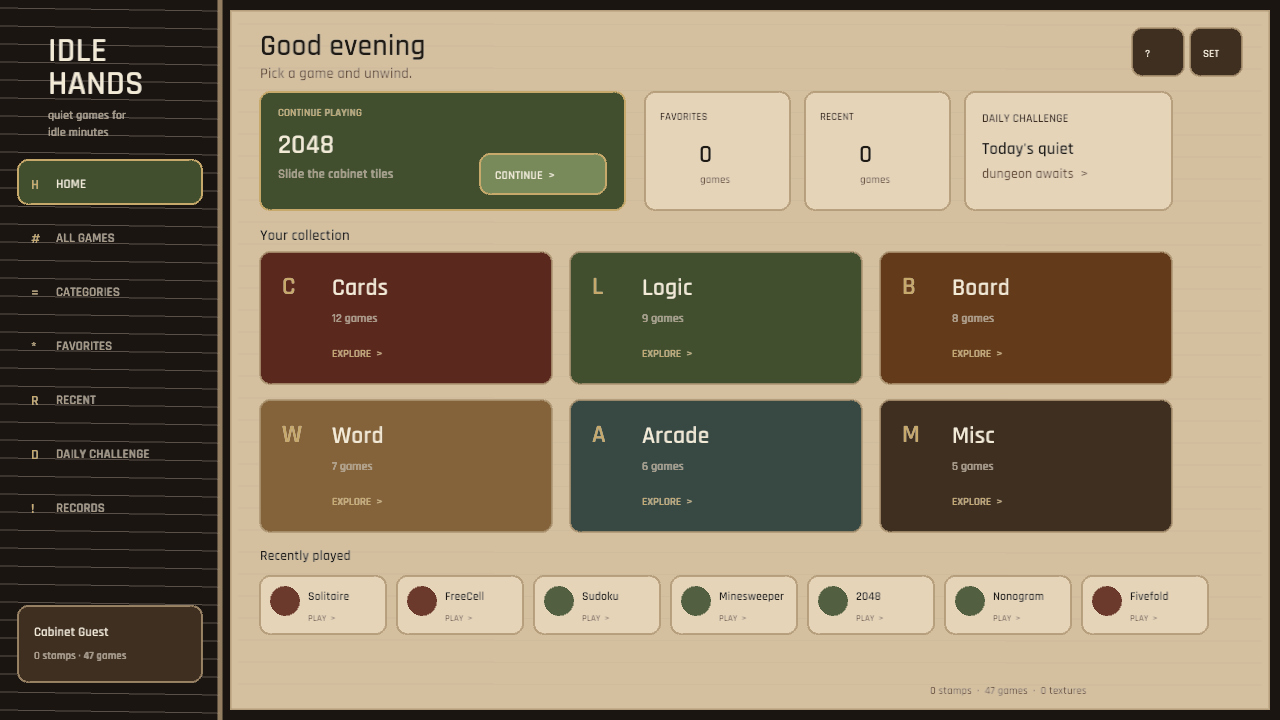
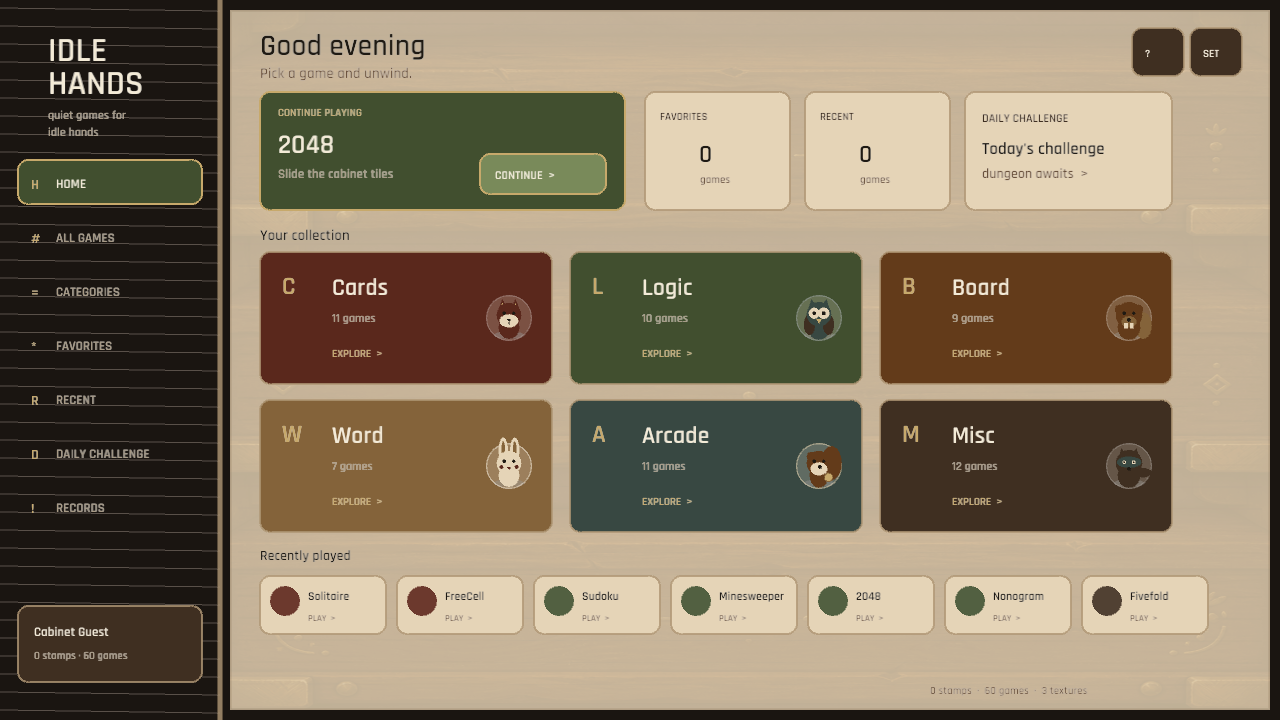
The cabinet gains six quiet companions for every shelf (category mascots and responsive cabinet polish)
The category tiles had open decorative space, while the dense game boards did not. Add the mascots vector sprite renderer and map Cards, Logic, Board, Word, Arcade, and Misc to a fox, owl, beaver, rabbit, squirrel, and raccoon. Draw the mascots only in the desktop, portrait, and compact-landscape home category tiles, keeping the existing full-card hit targets and leaving gameplay surfaces untouched.

Refresh the cabinet verification captures and align the category-count invariant with the current catalog: 11 Cards and 12 Misc. cargo fmt -- --check, cargo test --no-default-features (889 passed), and publish.ps1 completed successfully for Windows and WebGL preview deployment.

diff --git a/src/mascots.rs b/src/mascots.rs
@@ -1,0 +1,317 @@
+//! Small, touch-safe animal marks for the cabinet's six game categories.
+//!
+//! These are intentionally drawn as simple vector sprites instead of loaded
+//! textures. They stay crisp at each cabinet scale, add no asset-loading
+//! failure mode, and remain purely decorative: the category cards keep their
+//! existing full-card hit targets.
+
+use macroquad::prelude::*;
+
+#[derive(Clone, Copy)]
+enum Mascot {
+    Fox,
+    Owl,
+    Beaver,
+    Rabbit,
+    Squirrel,
+    Raccoon,
+}
+
+pub fn draw_for_filter(filter: u8, center: Vec2, scale: f32) {
+    let Some(mascot) = mascot_for_filter(filter) else {
+        return;
+    };
+    let scale = scale.max(0.1);
+    let accent = mascot_accent(mascot);
+
+    draw_ellipse(
+        center.x,
+        center.y + 18. * scale,
+        16. * scale,
+        4. * scale,
+        0.,
+        Color::new(0.05, 0.035, 0.025, 0.28),
+    );
+    draw_circle(
+        center.x,
+        center.y,
+        24. * scale,
+        Color::new(0.94, 0.87, 0.72, 0.12),
+    );
+    draw_circle_lines(
+        center.x,
+        center.y,
+        23. * scale,
+        1.3 * scale,
+        Color::new(accent.r, accent.g, accent.b, 0.42),
+    );
+
+    match mascot {
+        Mascot::Fox => draw_fox(center, scale),
+        Mascot::Owl => draw_owl(center, scale),
+        Mascot::Beaver => draw_beaver(center, scale),
+        Mascot::Rabbit => draw_rabbit(center, scale),
+        Mascot::Squirrel => draw_squirrel(center, scale),
+        Mascot::Raccoon => draw_raccoon(center, scale),
+    }
+}
+
+fn mascot_for_filter(filter: u8) -> Option<Mascot> {
+    match filter {
+        3 => Some(Mascot::Fox),
+        4 => Some(Mascot::Owl),
+        5 => Some(Mascot::Beaver),
+        6 => Some(Mascot::Rabbit),
+        7 => Some(Mascot::Squirrel),
+        8 => Some(Mascot::Raccoon),
+        _ => None,
+    }
+}
+
+fn mascot_accent(mascot: Mascot) -> Color {
+    match mascot {
+        Mascot::Fox => crate::theme::LEATHER,
+        Mascot::Owl => crate::theme::SLATE_BRONZE,
+        Mascot::Beaver => crate::theme::WALNUT,
+        Mascot::Rabbit => crate::theme::PAPER_LIGHT,
+        Mascot::Squirrel => crate::theme::BRASS,
+        Mascot::Raccoon => crate::theme::SURFACE_DARK,
+    }
+}
+
+fn draw_fox(center: Vec2, scale: f32) {
+    let fur = crate::theme::LEATHER;
+    let ear = crate::theme::BRASS;
+    let cream = crate::theme::PAPER_LIGHT;
+    let ink = crate::theme::INK;
+    let s = scale;
+
+    draw_triangle(
+        center + vec2(-12., -7.) * s,
+        center + vec2(-7., -20.) * s,
+        center + vec2(-1., -9.) * s,
+        fur,
+    );
+    draw_triangle(
+        center + vec2(12., -7.) * s,
+        center + vec2(7., -20.) * s,
+        center + vec2(1., -9.) * s,
+        fur,
+    );
+    draw_triangle(
+        center + vec2(-9., -10.) * s,
+        center + vec2(-7., -16.) * s,
+        center + vec2(-4., -11.) * s,
+        ear,
+    );
+    draw_triangle(
+        center + vec2(9., -10.) * s,
+        center + vec2(7., -16.) * s,
+        center + vec2(4., -11.) * s,
+        ear,
+    );
+    draw_ellipse(center.x, center.y + 10. * s, 11. * s, 12. * s, 0., fur);
+    draw_circle(center.x, center.y - 3. * s, 13. * s, fur);
+    draw_ellipse(center.x, center.y + 3. * s, 10. * s, 7. * s, 0., cream);
+    draw_circle(center.x - 5. * s, center.y - 5. * s, 1.7 * s, ink);
+    draw_circle(center.x + 5. * s, center.y - 5. * s, 1.7 * s, ink);
+    draw_triangle(
+        center + vec2(-2.5, 1.) * s,
+        center + vec2(2.5, 1.) * s,
+        center + vec2(0., 4.) * s,
+        ink,
+    );
+    draw_line(
+        center.x,
+        center.y + 4. * s,
+        center.x,
+        center.y + 7. * s,
+        1. * s,
+        ink,
+    );
+}
+
+fn draw_owl(center: Vec2, scale: f32) {
+    let body = crate::theme::SLATE_BRONZE;
+    let wing = crate::theme::SURFACE_DARK;
+    let eye = crate::theme::PAPER_LIGHT;
+    let ink = crate::theme::INK;
+    let s = scale;
+
+    draw_ellipse(center.x, center.y + 7. * s, 13. * s, 16. * s, 0., body);
+    draw_ellipse(
+        center.x - 10. * s,
+        center.y + 7. * s,
+        6. * s,
+        11. * s,
+        -0.28,
+        wing,
+    );
+    draw_ellipse(
+        center.x + 10. * s,
+        center.y + 7. * s,
+        6. * s,
+        11. * s,
+        0.28,
+        wing,
+    );
+    draw_triangle(
+        center + vec2(-11., -10.) * s,
+        center + vec2(-8., -20.) * s,
+        center + vec2(-2., -12.) * s,
+        body,
+    );
+    draw_triangle(
+        center + vec2(11., -10.) * s,
+        center + vec2(8., -20.) * s,
+        center + vec2(2., -12.) * s,
+        body,
+    );
+    draw_circle(center.x, center.y - 4. * s, 13. * s, body);
+    for eye_x in [-5., 5.] {
+        draw_circle(center.x + eye_x * s, center.y - 5. * s, 6. * s, eye);
+        draw_circle(center.x + eye_x * s, center.y - 5. * s, 2. * s, ink);
+    }
+    draw_triangle(
+        center + vec2(-3., 1.) * s,
+        center + vec2(3., 1.) * s,
+        center + vec2(0., 6.) * s,
+        crate::theme::BRASS,
+    );
+}
+
+fn draw_beaver(center: Vec2, scale: f32) {
+    let fur = crate::theme::WALNUT;
+    let light = crate::theme::PARCHMENT_BROWN;
+    let cream = crate::theme::PAPER_LIGHT;
+    let ink = crate::theme::INK;
+    let s = scale;
+
+    draw_ellipse(
+        center.x + 15. * s,
+        center.y + 8. * s,
+        9. * s,
+        14. * s,
+        -0.45,
+        light,
+    );
+    draw_ellipse(center.x, center.y + 10. * s, 12. * s, 13. * s, 0., fur);
+    draw_circle(center.x - 10. * s, center.y - 9. * s, 5. * s, fur);
+    draw_circle(center.x + 10. * s, center.y - 9. * s, 5. * s, fur);
+    draw_circle(center.x, center.y - 3. * s, 14. * s, fur);
+    draw_circle(center.x - 5. * s, center.y - 5. * s, 1.7 * s, ink);
+    draw_circle(center.x + 5. * s, center.y - 5. * s, 1.7 * s, ink);
+    draw_ellipse(center.x, center.y + 4. * s, 8. * s, 6. * s, 0., light);
+    draw_circle(center.x, center.y + 2. * s, 2. * s, ink);
+    draw_rectangle(center.x - 5. * s, center.y + 5. * s, 4. * s, 6. * s, cream);
+    draw_rectangle(center.x + 1. * s, center.y + 5. * s, 4. * s, 6. * s, cream);
+}
+
+fn draw_rabbit(center: Vec2, scale: f32) {
+    let fur = crate::theme::PAPER_LIGHT;
+    let inner = crate::theme::PARCHMENT_BROWN;
+    let blush = crate::theme::LEATHER;
+    let ink = crate::theme::INK;
+    let s = scale;
+
+    for (x, tilt) in [(-6., -0.12), (6., 0.12)] {
+        draw_ellipse(
+            center.x + x * s,
+            center.y - 16. * s,
+            5. * s,
+            14. * s,
+            tilt,
+            fur,
+        );
+        draw_ellipse(
+            center.x + x * s,
+            center.y - 16. * s,
+            2. * s,
+            10. * s,
+            tilt,
+            inner,
+        );
+    }
+    draw_ellipse(center.x, center.y + 10. * s, 11. * s, 12. * s, 0., fur);
+    draw_circle(center.x, center.y - 3. * s, 13. * s, fur);
+    draw_circle(center.x - 5. * s, center.y - 5. * s, 1.7 * s, ink);
+    draw_circle(center.x + 5. * s, center.y - 5. * s, 1.7 * s, ink);
+    draw_triangle(
+        center + vec2(-2.5, 1.) * s,
+        center + vec2(2.5, 1.) * s,
+        center + vec2(0., 4.) * s,
+        blush,
+    );
+    draw_circle(center.x - 8. * s, center.y + 1. * s, 2. * s, blush);
+    draw_circle(center.x + 8. * s, center.y + 1. * s, 2. * s, blush);
+}
+
+fn draw_squirrel(center: Vec2, scale: f32) {
+    let fur = crate::theme::WALNUT;
+    let light = crate::theme::BRASS;
+    let cream = crate::theme::PAPER_LIGHT;
+    let ink = crate::theme::INK;
+    let s = scale;
+
+    draw_ellipse(
+        center.x + 13. * s,
+        center.y - 3. * s,
+        11. * s,
+        18. * s,
+        0.55,
+        fur,
+    );
+    draw_ellipse(center.x, center.y + 10. * s, 10. * s, 13. * s, 0., fur);
+    draw_circle(center.x - 8. * s, center.y - 10. * s, 5. * s, fur);
+    draw_circle(center.x + 8. * s, center.y - 10. * s, 5. * s, fur);
+    draw_circle(center.x, center.y - 3. * s, 13. * s, fur);
+    draw_circle(center.x - 5. * s, center.y - 5. * s, 1.7 * s, ink);
+    draw_circle(center.x + 5. * s, center.y - 5. * s, 1.7 * s, ink);
+    draw_ellipse(center.x, center.y + 3. * s, 9. * s, 7. * s, 0., cream);
+    draw_circle(center.x + 1. * s, center.y + 1. * s, 2. * s, ink);
+    draw_circle(center.x + 10. * s, center.y + 12. * s, 4. * s, light);
+    draw_circle_lines(
+        center.x + 10. * s,
+        center.y + 12. * s,
+        4. * s,
+        1. * s,
+        crate::theme::PARCHMENT_BROWN,
+    );
+}
+
+fn draw_raccoon(center: Vec2, scale: f32) {
+    let fur = crate::theme::SURFACE_DARK;
+    let mask = crate::theme::SLATE_BRONZE;
+    let cream = crate::theme::PAPER_LIGHT;
+    let ink = crate::theme::INK;
+    let s = scale;
+
+    draw_ellipse(
+        center.x + 14. * s,
+        center.y + 7. * s,
+        10. * s,
+        5. * s,
+        0.28,
+        fur,
+    );
+    draw_ellipse(center.x, center.y + 10. * s, 12. * s, 13. * s, 0., fur);
+    draw_triangle(
+        center + vec2(-11., -8.) * s,
+        center + vec2(-8., -19.) * s,
+        center + vec2(-2., -11.) * s,
+        fur,
+    );
+    draw_triangle(
+        center + vec2(11., -8.) * s,
+        center + vec2(8., -19.) * s,
+        center + vec2(2., -11.) * s,
+        fur,
+    );
+    draw_circle(center.x, center.y - 3. * s, 14. * s, fur);
+    draw_ellipse(center.x, center.y - 4. * s, 13. * s, 6. * s, 0., mask);
+    draw_circle(center.x - 5. * s, center.y - 4. * s, 2. * s, cream);
+    draw_circle(center.x + 5. * s, center.y - 4. * s, 2. * s, cream);
+    draw_circle(center.x - 5. * s, center.y - 4. * s, 1. * s, ink);
+    draw_circle(center.x + 5. * s, center.y - 4. * s, 1. * s, ink);
+    draw_circle(center.x, center.y + 3. * s, 2. * s, ink);
+}

diff --git a/src/cabinet_status/tests.rs b/src/cabinet_status/tests.rs
@@ -39,10 +39,10 @@ fn category_filters_partition_the_whole_collection() {
     assert!(matches_filter(&state, GameId::DungeonSweeper, 4));
     assert!(matches_filter(&state, GameId::Battleship, 5));
     assert!(matches_filter(&state, GameId::OneRoomRoguelike, 8));
-    assert_eq!(filter_count(&state, 3), 12);
+    assert_eq!(filter_count(&state, 3), 11);
     assert_eq!(filter_count(&state, 4), 10);
     assert_eq!(filter_count(&state, 5), 9);
     assert_eq!(filter_count(&state, 6), 7);
     assert_eq!(filter_count(&state, 7), 11);
-    assert_eq!(filter_count(&state, 8), 11);
+    assert_eq!(filter_count(&state, 8), 12);
 }

diff --git a/src/cabinet_ui.rs b/src/cabinet_ui.rs
@@ -341,6 +341,7 @@ fn category_card(state: &AppState, rect: Rect, filter: u8) {
         11.,
         crate::theme::BRASS,
     );
+    crate::mascots::draw_for_filter(filter, vec2(rect.right() - 43., rect.y + 66.), 0.95);
 }
 
 fn stat_card(rect: Rect, label: &str, count: usize, unit: &str) {

diff --git a/src/responsive_cabinet.rs b/src/responsive_cabinet.rs
@@ -263,6 +263,7 @@ fn category_row(state: &AppState, rect: Rect, filter: u8) {
         10.,
         crate::theme::SECONDARY,
     );
+    crate::mascots::draw_for_filter(filter, vec2(rect.x + 31., rect.y + 31.), 0.62);
     text(
         ">",
         rect.right() - 24.,

diff --git a/src/responsive_landscape_cabinet.rs b/src/responsive_landscape_cabinet.rs
@@ -212,6 +212,7 @@ fn category(state: &AppState, rect: Rect, filter: u8) {
         9.,
         crate::theme::SECONDARY,
     );
+    crate::mascots::draw_for_filter(filter, vec2(rect.right() - 29., rect.y + 41.), 0.68);
 }
 
 fn home_clicks(p: Vec2) -> Vec<UiAction> {

diff --git a/src/main.rs b/src/main.rs
@@ -75,6 +75,7 @@ mod mahjong_solitaire;
 mod mahjong_solitaire_ui;
 mod mancala;
 mod mancala_ui;
+mod mascots;
 mod mastermind;
 mod mastermind_ui;
 mod match_three;
